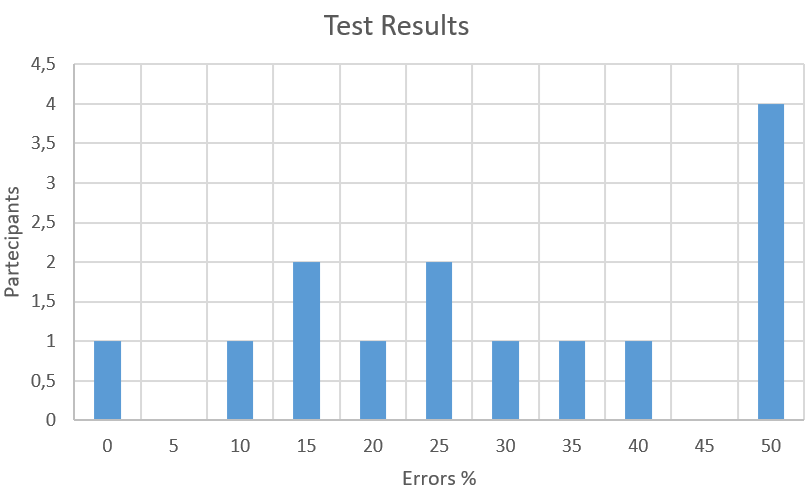
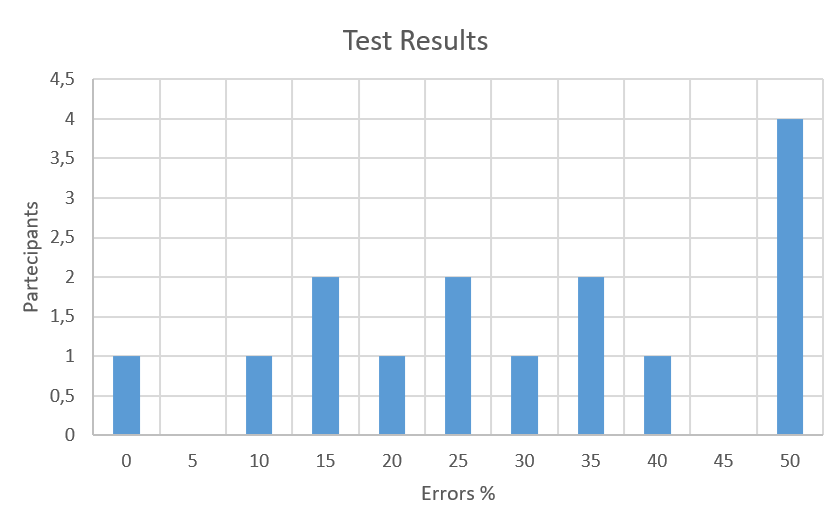
Aggiornati test con Giovanni

Changed region(s): [[0.0, 0.123, 1.0, 1.0], [0.4022, 0.0307, 0.5879, 0.0922]]

diff --git a/Relazione/Relazione.tex b/Relazione/Relazione.tex
@@ -331,7 +331,7 @@ Some remarks need to be made with regards to the prior color probability of the 
 As the original author of the papers claim \cite{Zhang:2016}, evaluating the quality of synthesized images is a difficult task in itself. Common qualitative metrics, such as RMS error on pixel values, fail to capture the notion of visual realism, which is what the system is instead trying to achieve.
 One could nonetheless measure the raw prediction accuracy (L2 distance from the ground truth in the \textbf{ab} color space), but we decided against this as it does not reflect the final aim of the system (that of a plausible colorization). In fact, Zhang et al. \cite{Zhang:2016} show that a metric of the sort would give a rather good score even for an image fully colorized in gray, which is not ideal.\\
 As a result, the best way to verify the quality of the result is to perform a test on human subjects. While the scope of our experiments is nowhere near as rigorous as the referenced counterpart, we thought it would be interesting to put the results of our model to use by attempting our own version of the proposed tests.\\
-We asked seventeen partecipants to identify real images given a choice between our colorized version of a picture and its original. Each pair of pictures were shown for five seconds and 20 pairs were shown in total.
+We asked fifteen partecipants to identify real images given a choice between our colorized version of a picture and its original. Each pair of pictures were shown for five seconds and 20 pairs were shown in total.
 Figure \ref{fig:testres} summarizes the results. The highest number of mistakes made is 50\% (as if all the choices were made randomly between two equally realistic images), whereas the best achieving subjects managed to have an error rate of 0\%. Our average fooling percentage is 30\%, which resembles the original authors' result of 32\%.\\
 Of course, we do not claim any scientific validity to our test, as the subject pool was far too small to prove of any significance. Nonetheless, the results are at least promising, and provide some positive feedback on the goodness of the model.
 
